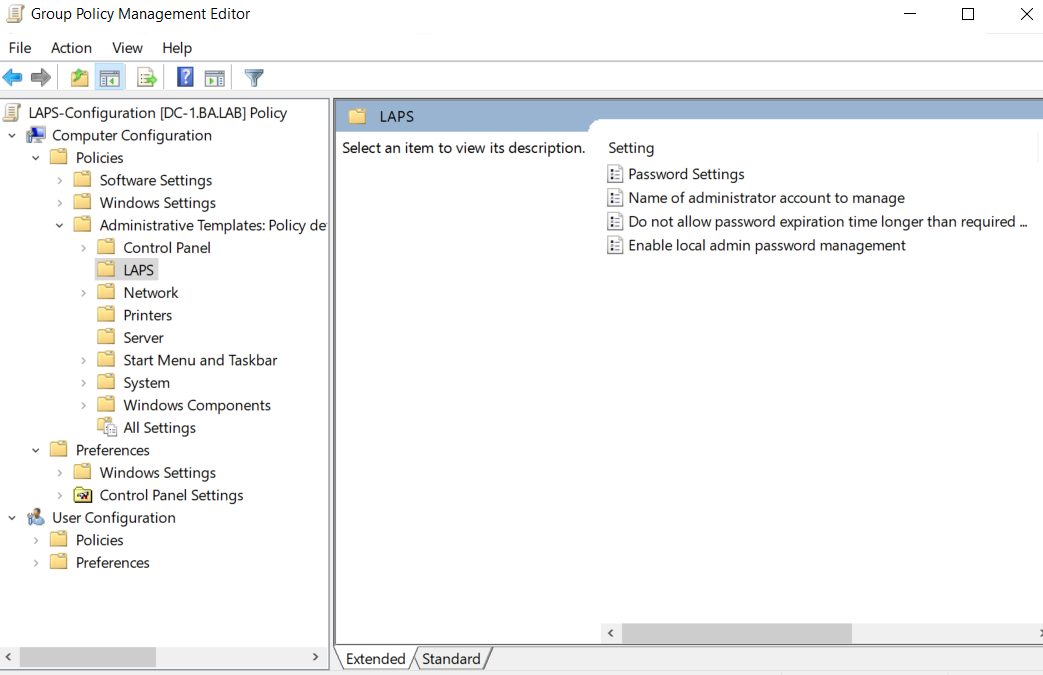
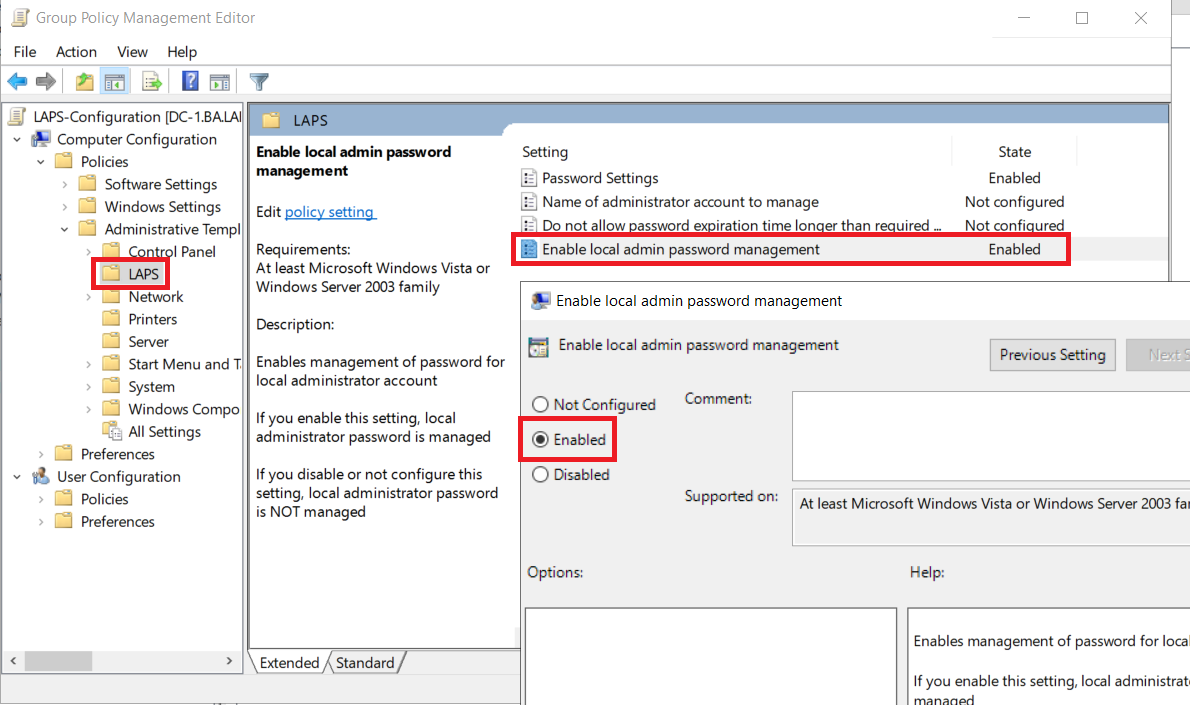
add laps content

diff --git a/best-practices/content/40_LAPS.tex b/best-practices/content/40_LAPS.tex
@@ -1,17 +1,19 @@
 \chapter{Local Administrator Password Solution}
 \section{Einleitung}
-Local Administrator Password Solution (LAPS)
-%What is it
-%Difference to normal (One Admin Password on all, Annoyingly saving password for all, have domain users with local admin permission)
+Local Administrator Password Solution (LAPS) ist eine Lösung von Microsoft.
+Mit LAPS werden die Passwörter der lokalen Administratoren, welche auf allen Windows Geräten vorhanden sind, zufällig und unterschiedlich voneinander gesetzt.
+Zusätzlich werden die Paswörter in einem gewissen Zeitraum automatisch neu gesetzt.\\
 
-\subsection{Anforderungen}
-Um LAPS einsetzten zu können, wir ein Active Directory benötigt.
+Dies verhindert, dass ein Angreiffer auf weitere Systeme vordringen kann, wenn ein lokales Administratorpasswort komprimiert ist.
+Die Passwörter sind in einem Attribut auf dem Computer Objekt im Active Directory hinterlegt.
+Zugriff auf dieses Attribut haben nur berechtigte Benutzer.
 
-
+\subsection{Voraussetzungen}
+Um LAPS einsetzten zu können, wird ein Active Directory benötigt mit allen Windows Geräten als Computer Objekte.
 
 \section{Installation}
 Die Installation ist in drei Schritte unterteilt.
-Als erstes wird LAPS per Group Policy auf allen Windows Geräten installiert.
+Als erstes wird LAPS bia Group Policy auf allen Windows Geräten installiert.
 Danach wird das Active Directory für LAPS vorbereitet.
 Das Active Directory braucht noch zwei zusätzliche Attribute auf den Computer Objekten.
 \begin{itemize}
@@ -22,11 +24,14 @@ Das Active Directory braucht noch zwei zusätzliche Attribute auf den Computer O
 Zum Schluss wird LAPS per Group Policy aktiviert.
 
 
-\subsection{Softwareverteilung}
+\subsection{Installation via GPO}
 LAPS kann auf der \href{https://www.microsoft.com/download/details.aspx?id=46899}{Webseite von Microsoft}\footnote{Link: https://www.microsoft.com/download/details.aspx?id=46899} heruntergeladen werden.
-Die .msi Datei muss in einem freigegebenen Netzlaufwerk auf dem Domain Controller platziert werden, auf welches alle Windows Geräte Zugriff haben.
-Zum Beispiel: \textbf{C:\textbackslash Windows\textbackslash SYSVOL\textbackslash sysvol\textbackslash <domain>\textbackslash}.
-Dieses Verzeichniss ist Standardmässig auf Domain Controllern freigegeben.\\
+Die .msi Datei muss in einem freigegebenen Netzlaufwerk platziert werden, auf welches alle Windows Geräte Zugriff haben.
+Zum Beispiel auf dem Domain Controller unter:
+\begin{lstlisting}
+    C:\Windows\SYSVOL\sysvol\<Domain>
+\end{lstlisting}
+Dieses Verzeichnis ist Standardmässig auf Domain Controllern freigegeben.\\
 
 Im Group Policy Management muss eine neue Group Policy erstellt werden, welche mit der OU verknüpft ist, die alle Windows Geräte enthält.
 \begin{figure}[H]
@@ -65,7 +70,7 @@ Dazu die Installationsdatei ausführen und alle Features installieren.
 \end{figure}
 
 
-\subsubsection{LAPS GUI für Admins}
+\subsubsection{LAPS GUI für Admins}\label{subsubsec:Laps-Gui}
 Über die GPO wird auf den Computern LAPS ohne GUI installiert.
 Mit dem GUI kann man das Passwort von beliebigen Windows Geräten abfragen.\\
 
@@ -86,25 +91,30 @@ Das \textbf{Management Tools} Feature auswählen und dem Installationsprozess fo
 
 \subsection{Active Directory vorbereiten}
 Die zusätzlichen Extension Attributes können per Powershell hinzugefügt werden.
-Der Auszuführende Benutzer muss dafür ``Schema Admin'' sein.\\
+Der Auszuführende Benutzer muss dafür ``Schema Admin'' in Active Directory sein.\\
+\begin{figure}[H]
+    \centering
+    \includegraphics[width=0.7\linewidth]{../img/LAPS/schema-admins.png}
+    \caption{Schema Admins Gruppe}
+\end{figure}
 
-Powershell mit dem Schema Admin Benutzer starten.
+Powershell mit dem Schema Admin Benutzer starten und folgendes Eingeben
 \begin{lstlisting}
 Import-module AdmPwd.PS
 Update-AdmPwdADSchema
 
 #Resultat:
-Operation            DistinguishedName                                              Status
----------            -----------------                                              ------
-AddSchemaAttribute   cn=ms-Mcs-AdmPwdExpirationTime,CN=Schema,CN=Configuration,DC=b Success
-AddSchemaAttribute   cn=ms-Mcs-AdmPwd,CN=Schema,CN=Configuration,DC=ba,DC=lab       Success
-ModifySchemaClass    cn=computer,CN=Schema,CN=Configuration,DC=ba,DC=lab            Success
+#Operation            DistinguishedName                                              Status
+#---------            -----------------                                              ------
+#AddSchemaAttribute   cn=ms-Mcs-AdmPwdExpirationTime,CN=Schema,CN=Configuration,DC=b Success
+#AddSchemaAttribute   cn=ms-Mcs-AdmPwd,CN=Schema,CN=Configuration,DC=ba,DC=lab       Success
+#ModifySchemaClass    cn=computer,CN=Schema,CN=Configuration,DC=ba,DC=lab            Success
 
 Set-AdmPwdComputerSelfPermission -OrgUnit "<Name der OU>"
 #Resultat:
-Name                 DistinguishedName                                              Status
-----                 -----------------                                              ------
-Clients              OU=Clients,OU=Computers,OU=Lab,DC=ba,DC=lab                    Delegated
+#Name                 DistinguishedName                                              Status
+#----                 -----------------                                              ------
+#Clients              OU=Clients,OU=Computers,OU=Lab,DC=ba,DC=lab                    Delegated
 \end{lstlisting}
 
 Nun muss noch eine Active Directory Gruppe erstellt werden.
@@ -112,7 +122,7 @@ Dieser kann man alle Benutzer hinzufügen, welche Zugriff auf die Passwörter be
 
 \begin{figure}[H]
     \centering
-    \includegraphics[width=0.7\linewidth]{../img/LAPS/Laps-Admins.png}
+    \includegraphics[width=\linewidth]{../img/LAPS/Laps-Admins.png}
     \caption{LAPS Active Directory Gruppe}
 \end{figure}
 
@@ -123,21 +133,19 @@ Dazu muss ASEdit und die Eigenschaften der OU geöffnet werden. Im ``Security'' 
     \includegraphics[width=0.7\linewidth]{../img/LAPS/ASEdit.png}
     \caption{ASEdit}
 \end{figure}
+unter ``Advanced'' muss die neue Gruppe hinzugefügt werden mit der Berechtigung ``All Extended Rights''.\\
 
-%TODO: Add Picture 
-
-Unter ``Advanced'' muss die neue Gruppe hinzugefügt werden mit der Berechtigung ``All Extended Rights''.
 Nun muss für LAPS noch die Verknüpfung zwischen dieser Gruppe und der OU erstellt werden.
 Dies kann mit Powershell erledigt werden:
 \begin{lstlisting}
-Set-AdmPwdReadPasswordPermission -OrgUnit "Computers" -AllowedPrincipals Global_LAPS-Admins
-Set-AdmPwdResetPasswordPermission -OrgUnit "Computers" -AllowedPrincipals Global_LAPS-Admins
+Set-AdmPwdReadPasswordPermission -OrgUnit "<Name der OU>" -AllowedPrincipals Global_LAPS-Admins
+Set-AdmPwdResetPasswordPermission -OrgUnit "<Name der OU>" -AllowedPrincipals Global_LAPS-Admins
 \end{lstlisting}
 Die Read Berechtigung erlaubt das Lesen der Passwörter.
 Die Reset Berechtigung erlaubt das setzten eines Ablaufdatums eines Passwortes.
-Die Berechtigung kann nun noch mti Powershell überprüft werden:
+Die Berechtigung kann nun noch mii Powershell überprüft werden:
 \begin{lstlisting}
-Find-AdmPwdExtendedrights -identity "Computers"
+Find-AdmPwdExtendedrights -identity "<Name der OU>"
 \end{lstlisting}
 
 
@@ -148,11 +156,100 @@ Im Group Policy Management muss eine neue Group Policy erstellt werden, welche m
 \begin{figure}[H]
     \centering
     \includegraphics[width=0.7\linewidth]{../img/LAPS/GPO-Create-New.png}
-    \caption{Neue GPO für LAPS Deployment}
+    \caption{Neue GP für LAPS Deployment}
 \end{figure}
-%2. Edit Policy and go to Computer Configuration > Policies > Administrative Templates > Laps [enable-laps]
-%
-%3. Enable Password Settings and define how: best 14 characters and change all
-%
-%
-%
+
+Mit \textbf{Rechtsklick $\rightarrow$ Edit} kann die neue Group Policy bearbeitet werden.
+Unter \textbf{Computer Configuration $\rightarrow$ Policies $\rightarrow$ Administrative Templates $\rightarrow$ Laps} findet man die Einstellungen von LAPS.
+Mit \textbf{Rechtsklick $\rightarrow$ Edit} auf ``Enable local admin password management'' kann man die Einstellung öffnen und Links auf ``Enabled'' setzen.
+Mit OK bestätigen.
+\begin{figure}[H]
+    \centering
+    \includegraphics[width=0.7\linewidth]{../img/LAPS/enable-laps.png}
+    \caption{LAPS aktivieren}
+\end{figure}
+
+In der Einstellung ``Password Settings'' kann man die Passwort Länge und den Zyklus setzten, wie oft das Passwort gewechselt werden soll.\\
+
+Die Group Policy kann nun geschlossen werden.
+
+
+\section{Verwendung}
+\subsection{Mit dem GUI}\label{subsec:laps-gui-usage}
+Das auslesen über das GUI geht nur, wenn das GUI auch installiert wurde.
+Die Installation des GUI wird im Kapitel \hyperref[subsubsec:Laps-Gui]{LAPS GUI für Admins} erklärt.\\
+
+Im Startmenü muss man nach \textbf{LAPS UI} suchen. Falls der in Windows angemeldete Benutzer Berechtigung besitzt, LAPS Passwörter auszulesen, kann LAPS dirket gestartet werden.\\
+Falls nicht, muss man den Speicherort der Datei öffnen.
+Dann kann man mit \textbf{Shift + Rechtsklick} das Kontextmenü öffnen und die Datei mit ``Run as different user'' als anderen Benutzer ausführen.
+Ein Eingabefenster öffnet sich, wo man den berechtigten Benutzer und das Passwort des Benutzer eingeben kann.
+Berechtigt sind alle Benutzer in der zuvor erstellten Gruppe und Domänen Administratoren.\\
+\begin{minipage}{0.5\linewidth}
+    \begin{figure}[H]
+        \centering
+        \includegraphics[width=\linewidth]{../img/LAPS/usage-1.png}
+        \caption{LAPS Speicherort öffnen}
+    \end{figure}
+\end{minipage}
+\begin{minipage}{0.5\linewidth}
+    \begin{figure}[H]
+        \centering
+        \includegraphics[width=\linewidth]{../img/LAPS/usage-2.png}
+        \caption{LAPS als anderer Benutzer starten}
+    \end{figure}
+\end{minipage}\\
+
+Im LAPS UI gibt man im Feld ``Computer name'' den Namen des Computers ein, von welchem man das lokale Passwort möchte.
+Das Passwort wird dann im Feld ``Password'' angezeigt.
+\begin{figure}[H]
+    \centering
+    \includegraphics[width=0.7\linewidth]{../img/LAPS/Laps-ui.png}
+    \caption{LAPS Passwort auslesen}
+\end{figure}
+Im Feld ``New expiration time'' kann man eine neue Zeit setzten, wann das Passwort gewechselt werden soll.
+
+\subsection{Mit Powershell}
+Powershell muss als Benutzer gestartet werden, welcher Berechtigung hat das Passwort anzusehen oder Zurückzusetzten.
+Powershell als andere Benutzer starten kann man gleich wie LAPS im Kapitel \hyperref[subsec:laps-gui-usage]{``Mit dem GUI''} als anderer Benutzer gestartet wurde.\\
+
+Für das Auslesen und Zurücksetzten gibt es folgende zwei Befehle:
+\begin{lstlisting}
+    Get-AdmPwdPassword -ComputerName <Computer Name>
+    Reset-AdmPwdPassword -ComputerName <Computer Name>
+\end{lstlisting}
+
+
+\section{Best Practices}
+Wenn möglich sollten nur IT Mitarbeitende die Berechtigung erhalten, Passwörter auslesen zu können.
+Alle Lokale Administratorrechte von AD Benutzern sollten entfernt werden und nur noch LAPS Passwörter verwendet werden.
+Dadurch kann man verhindern, dass es einen Benutzer gibt, welcher auf allen Systemen Berechtigung hat.\\
+
+Falls ein Mitarbeitender ohne LAPS Berechtigung lokale Administratorrechte braucht, kann diesem das LAPS Paswort gegeben werden.
+Dann sollte man aber auch das ``Expire Date'' auf das Datum setzten, wo das Passwort nicht mehr gebraucht wird.
+Zum Beispeil am nächsten Tag.
+
+\section{Intergration in Wazuh}
+In Wazuh existiert eine Regel, welche jedes auslesen meldet.
+Die Regel hat die ID 110010 und der Agent Name ist der \textbf{Domain Controller}.
+Es ist nicht der der Computer, auf welchem das Passwort ausgelesen wurde.
+\begin{figure}[H]
+    \centering
+    \includegraphics[width=\linewidth]{../img/LAPS/laps-wazuh.png}
+    \caption{LAPS Wazuh Alert}
+\end{figure}
+Somit weiss man wer für welchen Computer das Passwort ausgelesen hat.
+Man kann jedoch nicht feststellen, von welchem Computer aus das Passwort ausgelesen wurde.\\
+
+Zusätzlich wird nur die GUID des Computers angezeigt, für welchen man das Passwort ausgelesen hat.
+Um den Computernamen zu finden, kann man folgenden Powershell Befehl verwenden:
+\begin{lstlisting}
+    #GUID mit { } eingeben!
+    Get-ADObject -Identity "<GUID>"
+\end{lstlisting}
+
+Zusätzlich gibt es noch eine Regel, welche einen Alert generiert, sobald 20 LAPS Passwörter in 10 Minuten ausgelesen wurden.
+\begin{figure}[H]
+    \centering
+    \includegraphics[width=\linewidth]{../img/LAPS/laps-wazuh-alert.png}
+    \caption{LAPS Wazuh Alert 2}
+\end{figure}

diff --git a/style/template.tex b/style/template.tex
@@ -50,7 +50,7 @@
 \usepackage{hyperref}
 \hypersetup{
     colorlinks,
-    linkcolor={black},
+    linkcolor={blue},
     citecolor={blue!50!black},
     urlcolor={blue!80!black}
 }
@@ -98,14 +98,14 @@
 
 \makeatletter
 \renewcommand\paragraph{\@startsection{paragraph}{4}{\z@}%
-{-3.25ex\@plus -1ex \@minus -.2ex}%
-{1.5ex \@plus .2ex}%
-{\normalfont\normalsize\itshape\bfseries}}
+    {-3.25ex\@plus -1ex \@minus -.2ex}%
+    {1.5ex \@plus .2ex}%
+    {\normalfont\normalsize\itshape\bfseries}}
 
 \renewcommand\subparagraph{\@startsection{subparagraph}{4}{\z@}%
-{-3.25ex\@plus -1ex \@minus -.2ex}%
-{1.5ex \@plus .2ex}%
-{\normalfont\normalsize\bfseries\itshape\color{black}}}
+    {-3.25ex\@plus -1ex \@minus -.2ex}%
+    {1.5ex \@plus .2ex}%
+    {\normalfont\normalsize\bfseries\itshape\color{black}}}
 \makeatother
 
 % new section -> new page
@@ -118,13 +118,13 @@
 \input{../style/listings.tex}
 \lstset{style=java}
 \lstset{
-    literate=  % Allow for German characters in lstlistings.
-        {Ö}{{\"O}}1
-        {Ä}{{\"A}}1
-        {Ü}{{\"U}}1
-        {ü}{{\"u}}1
-        {ä}{{\"a}}1
-        {ö}{{\"o}}1
+literate=  % Allow for German characters in lstlistings.
+    {Ö}{{\"O}}1
+{Ä}{{\"A}}1
+{Ü}{{\"U}}1
+{ü}{{\"u}}1
+{ä}{{\"a}}1
+{ö}{{\"o}}1
 }
 
 % dotted rule
@@ -133,8 +133,8 @@
 \usetikzlibrary{decorations.markings}
 \newcommand{\drule}[3][0]{
     \tikz[baseline]{\path[decoration={markings,
-    mark=between positions 0 and 1 step 2*#3
-    with {\node[fill, circle, minimum width=#3, inner sep=0pt, anchor=south west] {};}},postaction={decorate}]  (0,#1) -- ++(#2,0);}}
+                    mark=between positions 0 and 1 step 2*#3
+                    with {\node[fill, circle, minimum width=#3, inner sep=0pt, anchor=south west] {};}},postaction={decorate}]  (0,#1) -- ++(#2,0);}}
 
 % no indentation
 \setlength{\parindent}{0cm}
